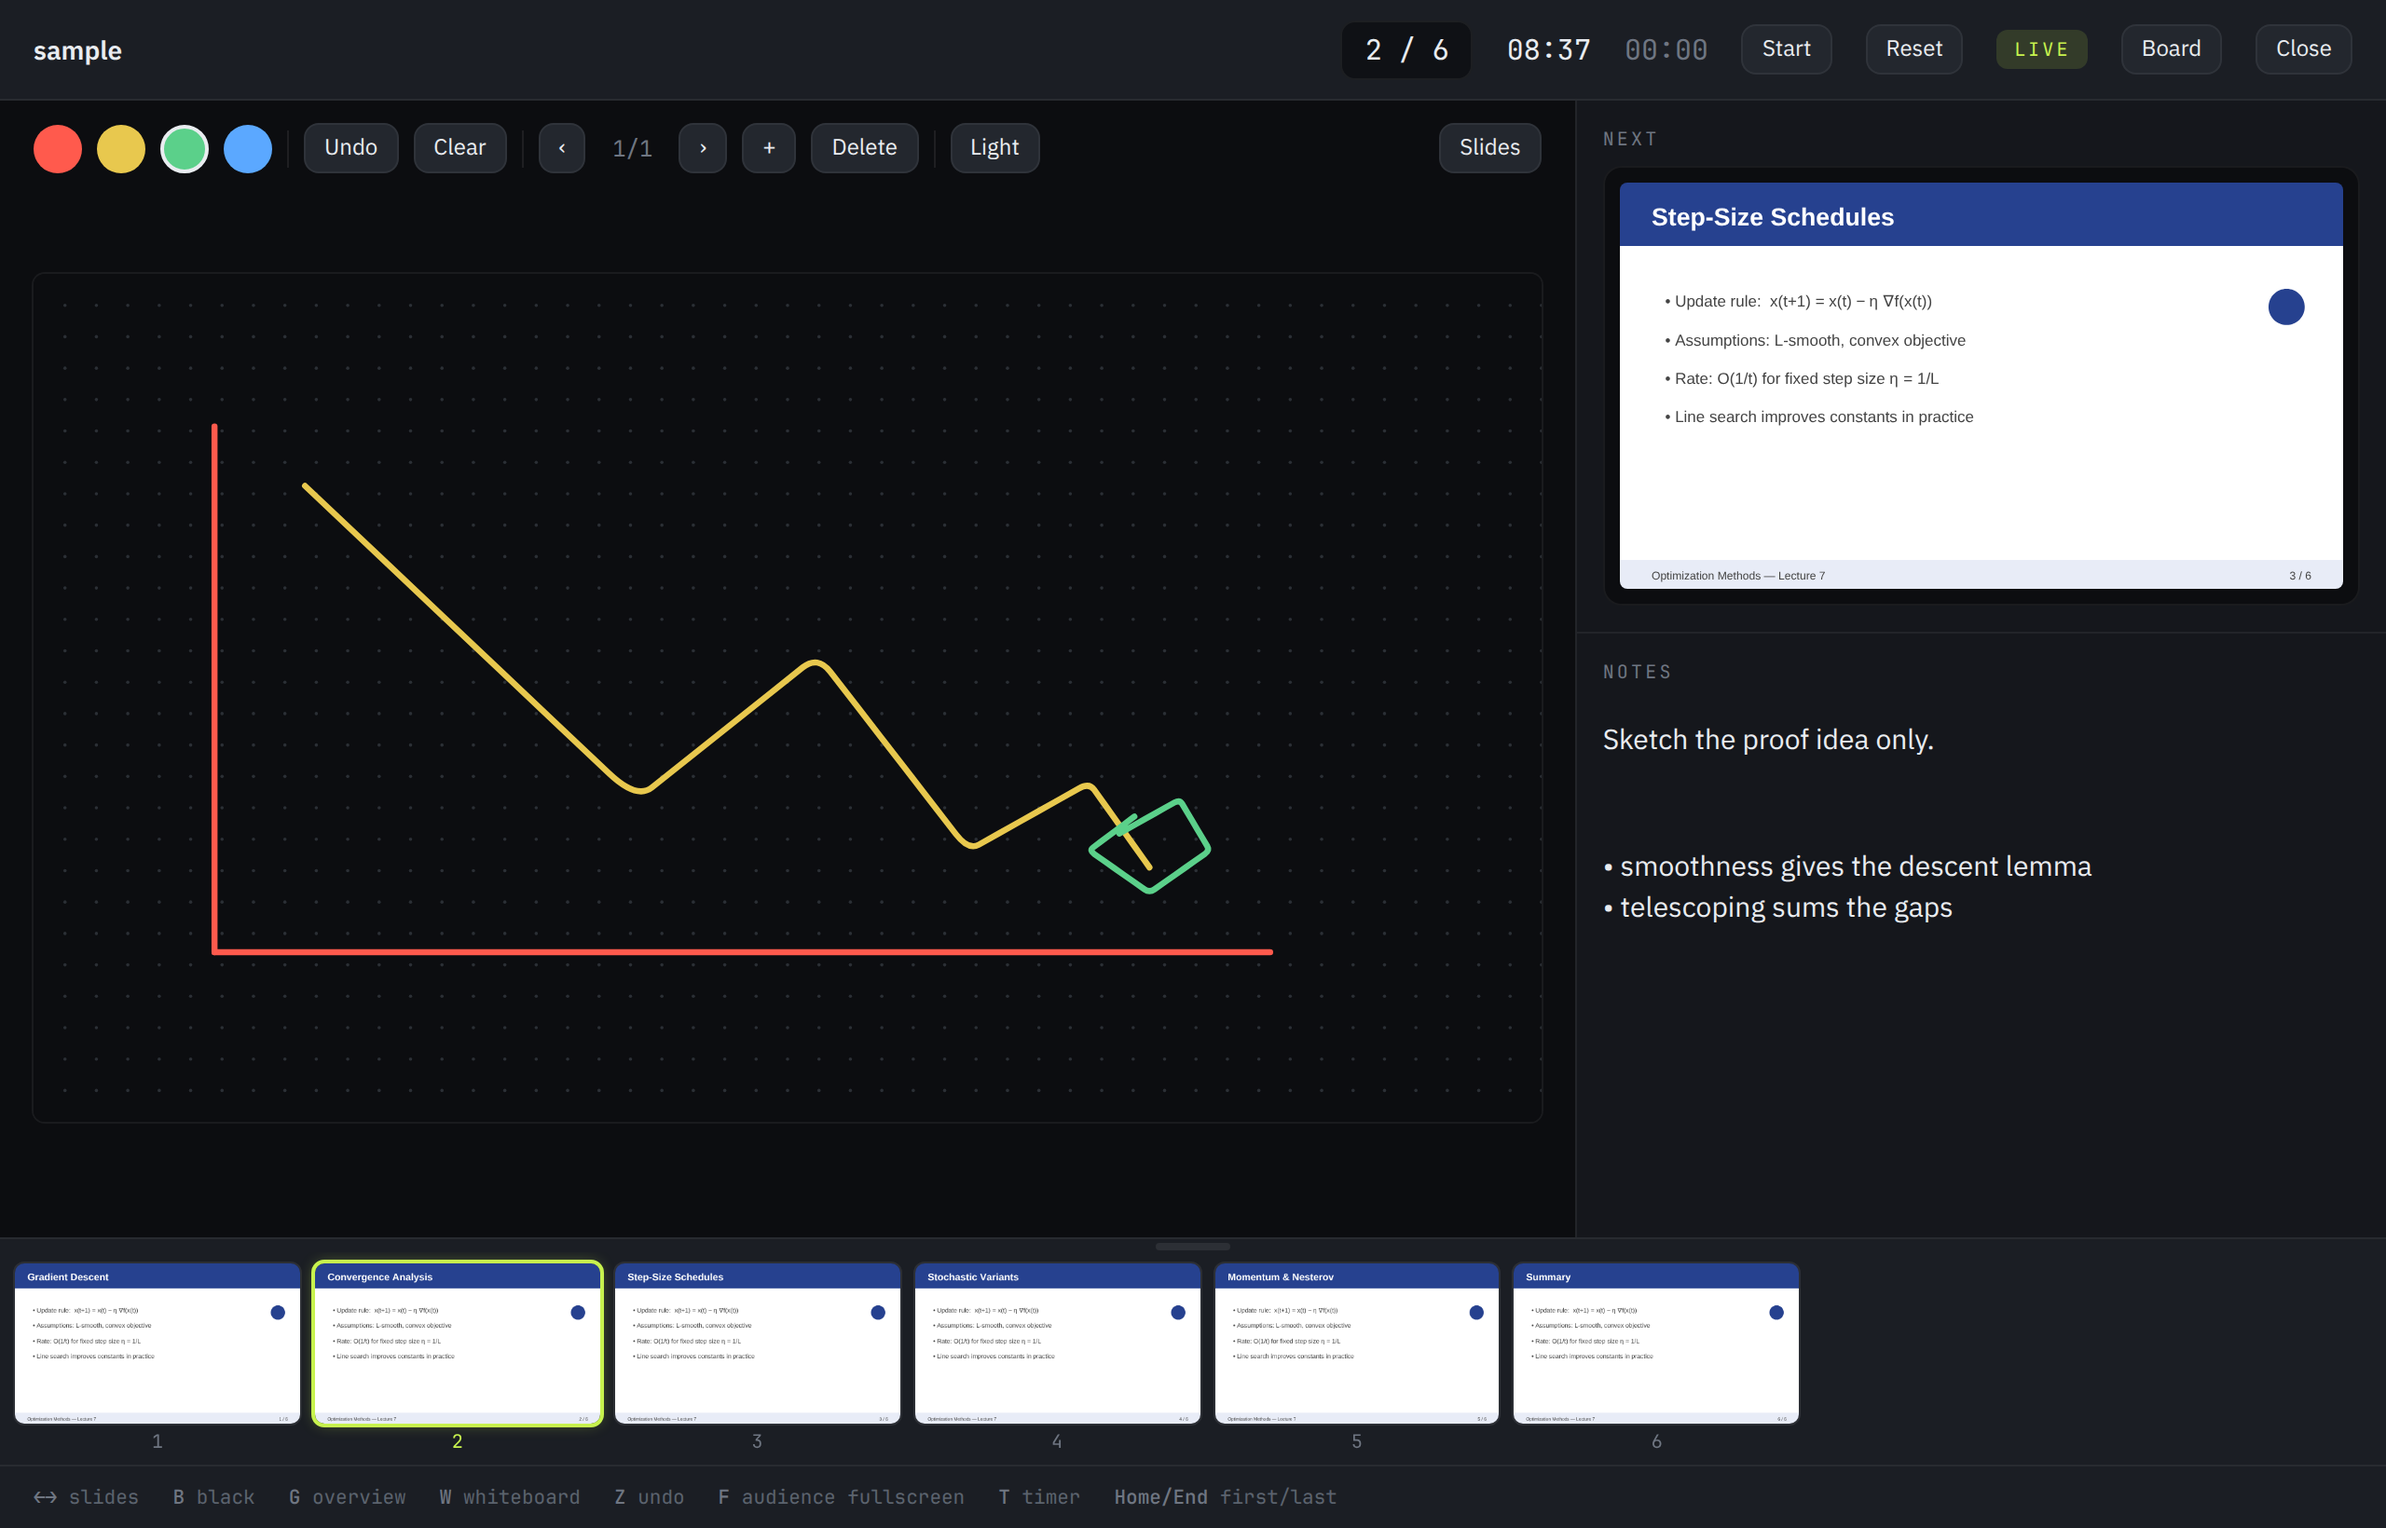
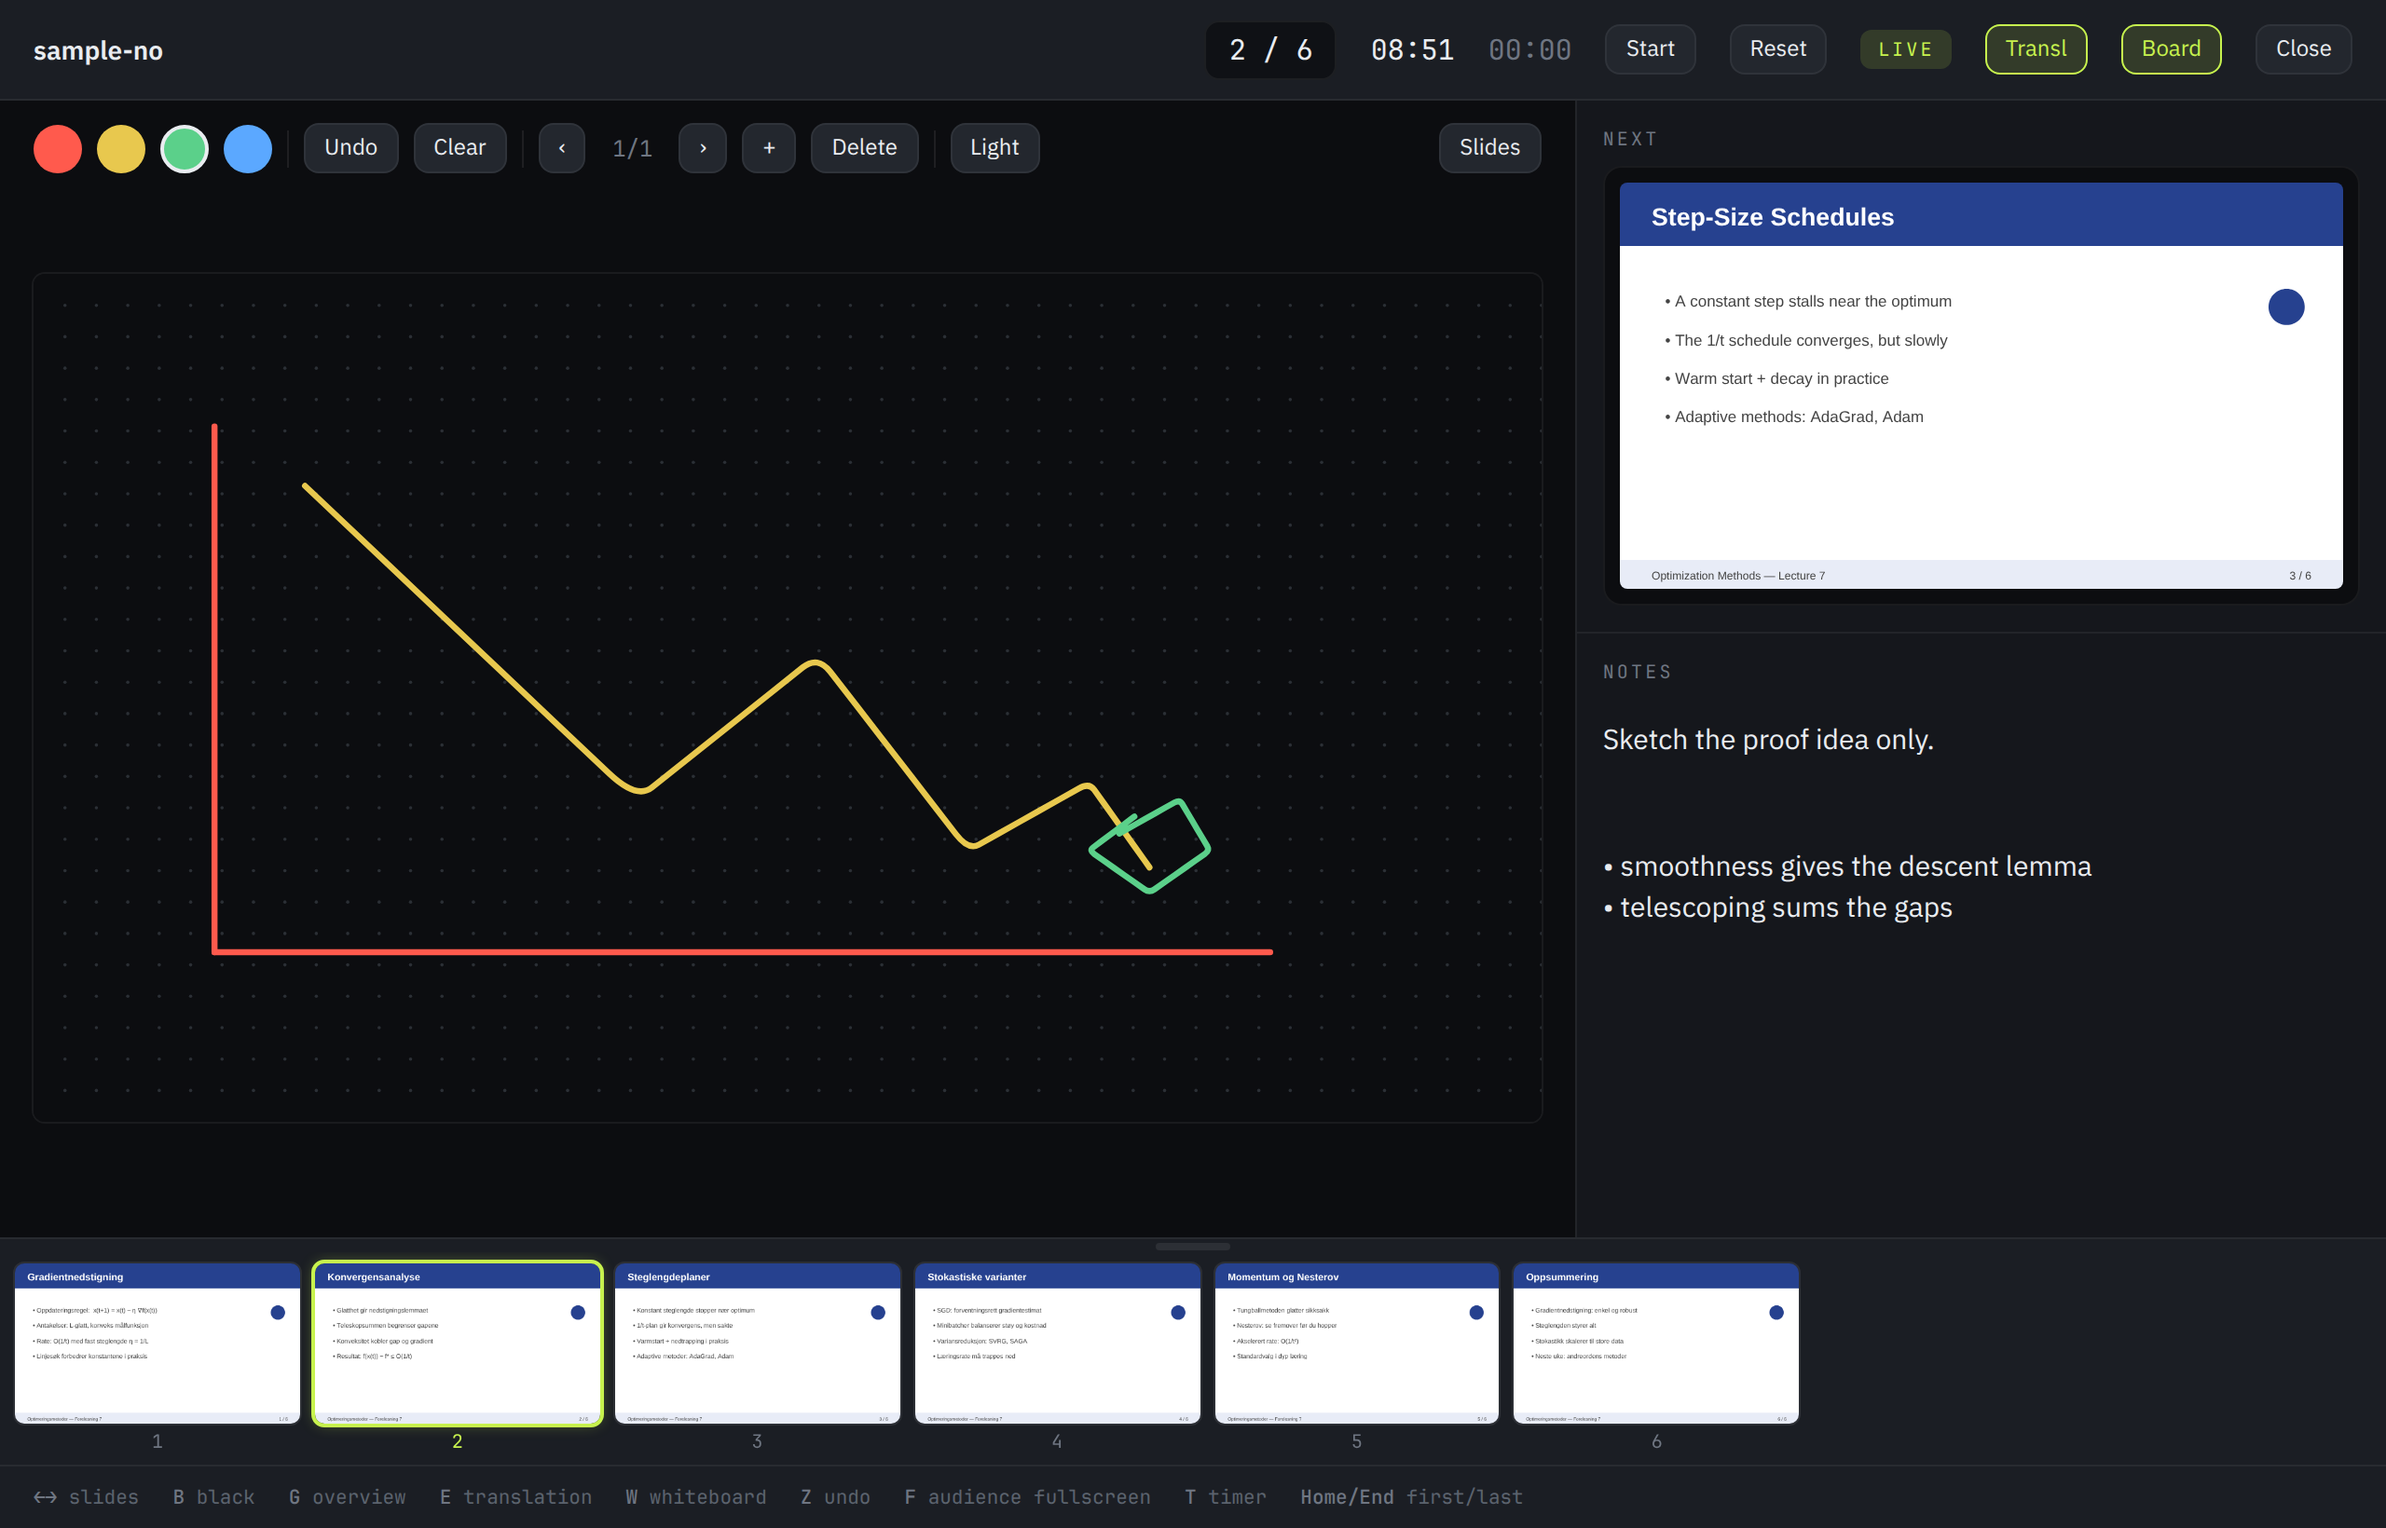
Screenshots: show the translated twin deck in action (v5.1)
Regenerated from a real headless run of the Linux UI: the console shot
now presents the Norwegian sample deck with its English twin in the
current/next panes and the lit Transl key — which also exercises the
twin-deck detection (file_exists probing, page-count match, RefSlides
rendering) end to end. Release binary built cleanly beforehand.

Claude-Session: https://claude.ai/code/session_014x6uHaeVf4jxFg2PU9LMs8

diff --git a/Sources/BeamerPresenter/Favorites.swift b/Sources/BeamerPresenter/Favorites.swift
@@ -64,10 +64,10 @@ enum AppInfo {
     static let name = "BeamerPresenter"
 
     static var version: String {
-        (Bundle.main.infoDictionary?["CFBundleShortVersionString"] as? String) ?? "5.0"
+        (Bundle.main.infoDictionary?["CFBundleShortVersionString"] as? String) ?? "5.1"
     }
 
-    /// e.g. "Version 5.0"
+    /// e.g. "Version 5.1"
     static var versionLine: String { "Version \(version)" }
 
     /// e.g. "Build 260621-1901175" — stamped at build time (see BuildInfo).

diff --git a/iOS/BeamerPresenter/ContentView.swift b/iOS/BeamerPresenter/ContentView.swift
@@ -165,7 +165,7 @@ struct StartView: View {
     }
 
     static var version: String {
-        Bundle.main.infoDictionary?["CFBundleShortVersionString"] as? String ?? "5.0"
+        Bundle.main.infoDictionary?["CFBundleShortVersionString"] as? String ?? "5.1"
     }
 }
 

diff --git a/Linux/ui/js/presenter.js b/Linux/ui/js/presenter.js
@@ -731,6 +731,6 @@
       : "LibreOffice not found — needed to open .pptx";
   });
 
-  el("version").textContent = "BeamerPresenter 5.0 · Linux";
+  el("version").textContent = "BeamerPresenter 5.1 · Linux";
   renderRecents();
 })();

diff --git a/README.md b/README.md
@@ -10,7 +10,7 @@ LaTeX install) or convert a PowerPoint `.pptx` (via LibreOffice) on the fly, and
 pull speaker notes straight from the `.tex` (`\note{…}`) or from the `.pptx`
 (PowerPoint speaker notes).
 
-**Version 5.0** — see `CHANGELOG.md`. Also available: an iPad version
+**Version 5.1** — see `CHANGELOG.md`. Also available: an iPad version
 (`iOS/`) and a **Linux port** of the core console (`Linux/`, Tauri 2 +
 WebKitGTK — see `Linux/README.md`; prebuilt `.deb` packages are attached to
 the GitHub Releases, rebuilt by CI on every push to `main`).
@@ -20,8 +20,10 @@ the GitHub Releases, rebuilt by CI on every push to `main`).
 *(Captured from the Linux build — the macOS app shares the same Night
 Console design.)*
 
-The presenter console: current + next slide, speaker notes from the `.tex`,
-clock/timer, and the zoomable thumbnail strip:
+The presenter console with the **translated twin deck** active: the audience
+(and the thumbnail strip) shows the Norwegian deck, while the current + next
+slide display its English twin — plus speaker notes from the `.tex`,
+clock/timer, and the zoomable strip:
 
 ![Presenter console](docs/screenshots/console.png)
 

diff --git a/CHANGELOG.md b/CHANGELOG.md
@@ -1,5 +1,12 @@
 # Changelog
 
+## v5.1 — 2026-10-19
+
+- **Screenshots refreshed** to show the translated twin deck in action: the
+  console screenshot now presents the Norwegian sample deck with its English
+  twin in the current/next panes (captured from a real headless run of the
+  Linux UI, which also exercises the twin-deck detection end to end).
+
 ## v5.0 — 2026-10-19
 
 **Translated twin deck** (macOS + Linux): present localized slides while
